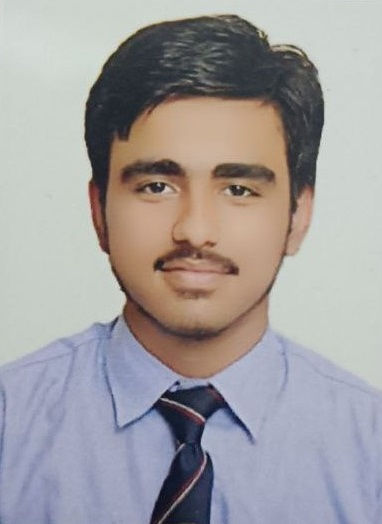
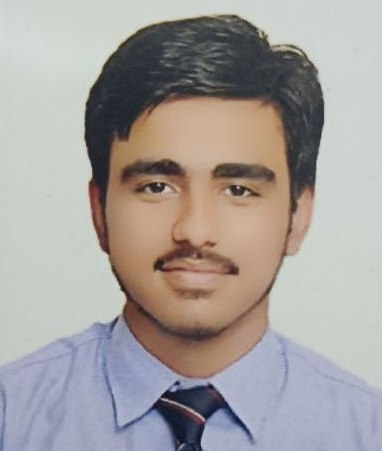
bug fixed

diff --git a/css/ourteam-style.css b/css/ourteam-style.css
@@ -17,7 +17,6 @@ html {
     overflow: scroll;
     overflow-x: hidden;
     scroll-behavior: smooth;
-
 }
 
 ::-webkit-scrollbar{
@@ -67,6 +66,7 @@ nav {
 	border-radius: 8px;
 	transition: .5s;
   }
+
 .team{
 	position: relative;
 	width: 100%;
@@ -78,7 +78,6 @@ nav {
 	justify-content: center;
 	flex-direction: column;
 }
-
 .team-content{
 	width: 100%;
 	max-width: 1350px;
@@ -99,7 +98,6 @@ nav {
 .team-content img{
 	width: 100%;
 	height: auto;
-	max-height: 220px;
 	border-radius: 15px;
 	margin-bottom: 15px;
 }
@@ -120,8 +118,6 @@ nav {
 	color: #fff;
 	margin-bottom: 8px;
 }
-
-	
 .box h5{
 	font-size: 15px;
 	font-weight: 600;
@@ -147,7 +143,7 @@ nav {
 @media(max-width: 1240px){
 	.team{
 		width: 100%;
-		height:auto;
+		height: auto;
 		padding: 90px 2%;
 	}
 	.center h1{

diff --git a/ourteam.html b/ourteam.html
@@ -12,6 +12,11 @@
 	<link rel="preconnect" href="https://fonts.googleapis.com">
   <link rel="preconnect" href="https://fonts.gstatic.com" crossorigin>
   <link href="https://fonts.googleapis.com/css2?family=Space+Grotesk:wght@300;400;500;600;700&display=swap" rel="stylesheet">
+	<style>
+		.box img{
+			max-height: 50vh;
+		}
+	</style>
 </head>
 <body>
 	<nav>
